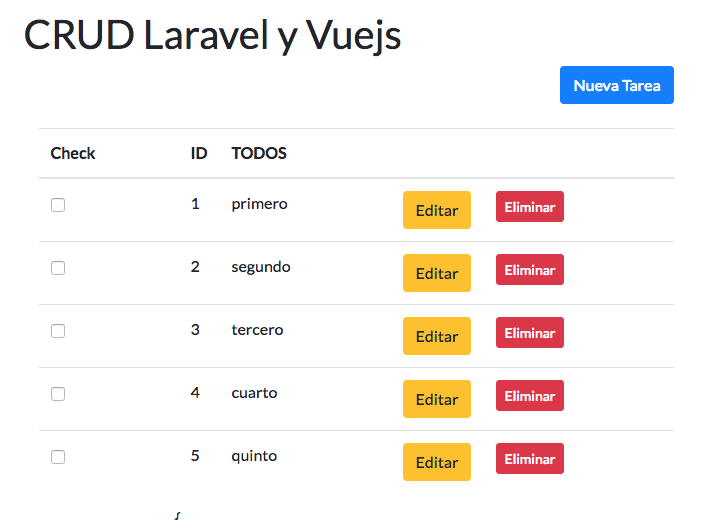
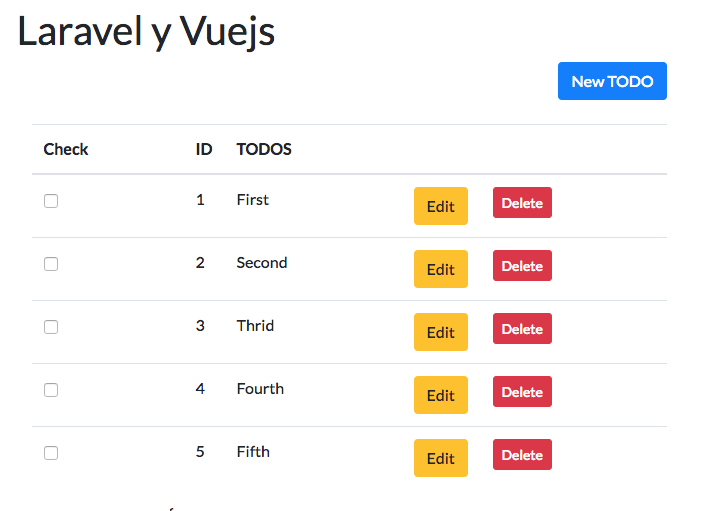
Se modifica el Readme v3

diff --git a/resources/views/management.blade.php b/resources/views/management.blade.php
@@ -16,10 +16,10 @@
         @endforelse
         */ ?>
         <div class="col-xs-12">
-            <h1 class="page-header">CRUD Laravel y Vuejs</h1>
+            <h1 class="page-header">Laravel y Vuejs</h1>
         </div>
         <div class="col-sm-7">
-            <a href="#" class="btn btn-primary pull-right mb-4">Nueva Tarea</a>
+            <a href="#" class="btn btn-primary pull-right mb-4">New TODO</a>
             <table class="table table-hover table-sprite">
                 <thead>
                     <tr>
@@ -35,10 +35,10 @@
                         <td width="10px" >@{{ keep.id }}</td>
                         <td>@{{ keep.name_TODO}}</td>
                         <td width="10px" >
-                            <a href="#" class="btn btn-warning btm-sm">Editar</a>
+                            <a href="#" class="btn btn-warning btm-sm">Edit</a>
                         </td>
                         <td>
-                            <a href="#" class="btn btn-danger btn-sm">Eliminar</a>
+                            <a href="#" class="btn btn-danger btn-sm">Delete</a>
                         </td>
                     </tr>
                 </tbody>

diff --git a/readme.md b/readme.md
@@ -5,7 +5,7 @@ An Manamgement to create TODOS, with the tools create, edit , delete and check.
 
 ## DOCS:
 
-1. Laravel is a web application framework with expressive, elegant syntax. We believe development must be an enjoyable, creative experience to be truly fulfilling. Laravel attempts to take the pain out of development by easing common tasks used in the majority of web projects, such as authentication, routing, sessions, queueing, and caching.
+Laravel is a web application framework with expressive, elegant syntax. We believe development must be an enjoyable, creative experience to be truly fulfilling. Laravel attempts to take the pain out of development by easing common tasks used in the majority of web projects, such as authentication, routing, sessions, queueing, and caching.
 
 Laravel is accessible, yet powerful, providing tools needed for large, robust applications. A superb inversion of control container, expressive migration system, and tightly integrated unit testing support give you the tools you need to build any application with which you are tasked.
 
